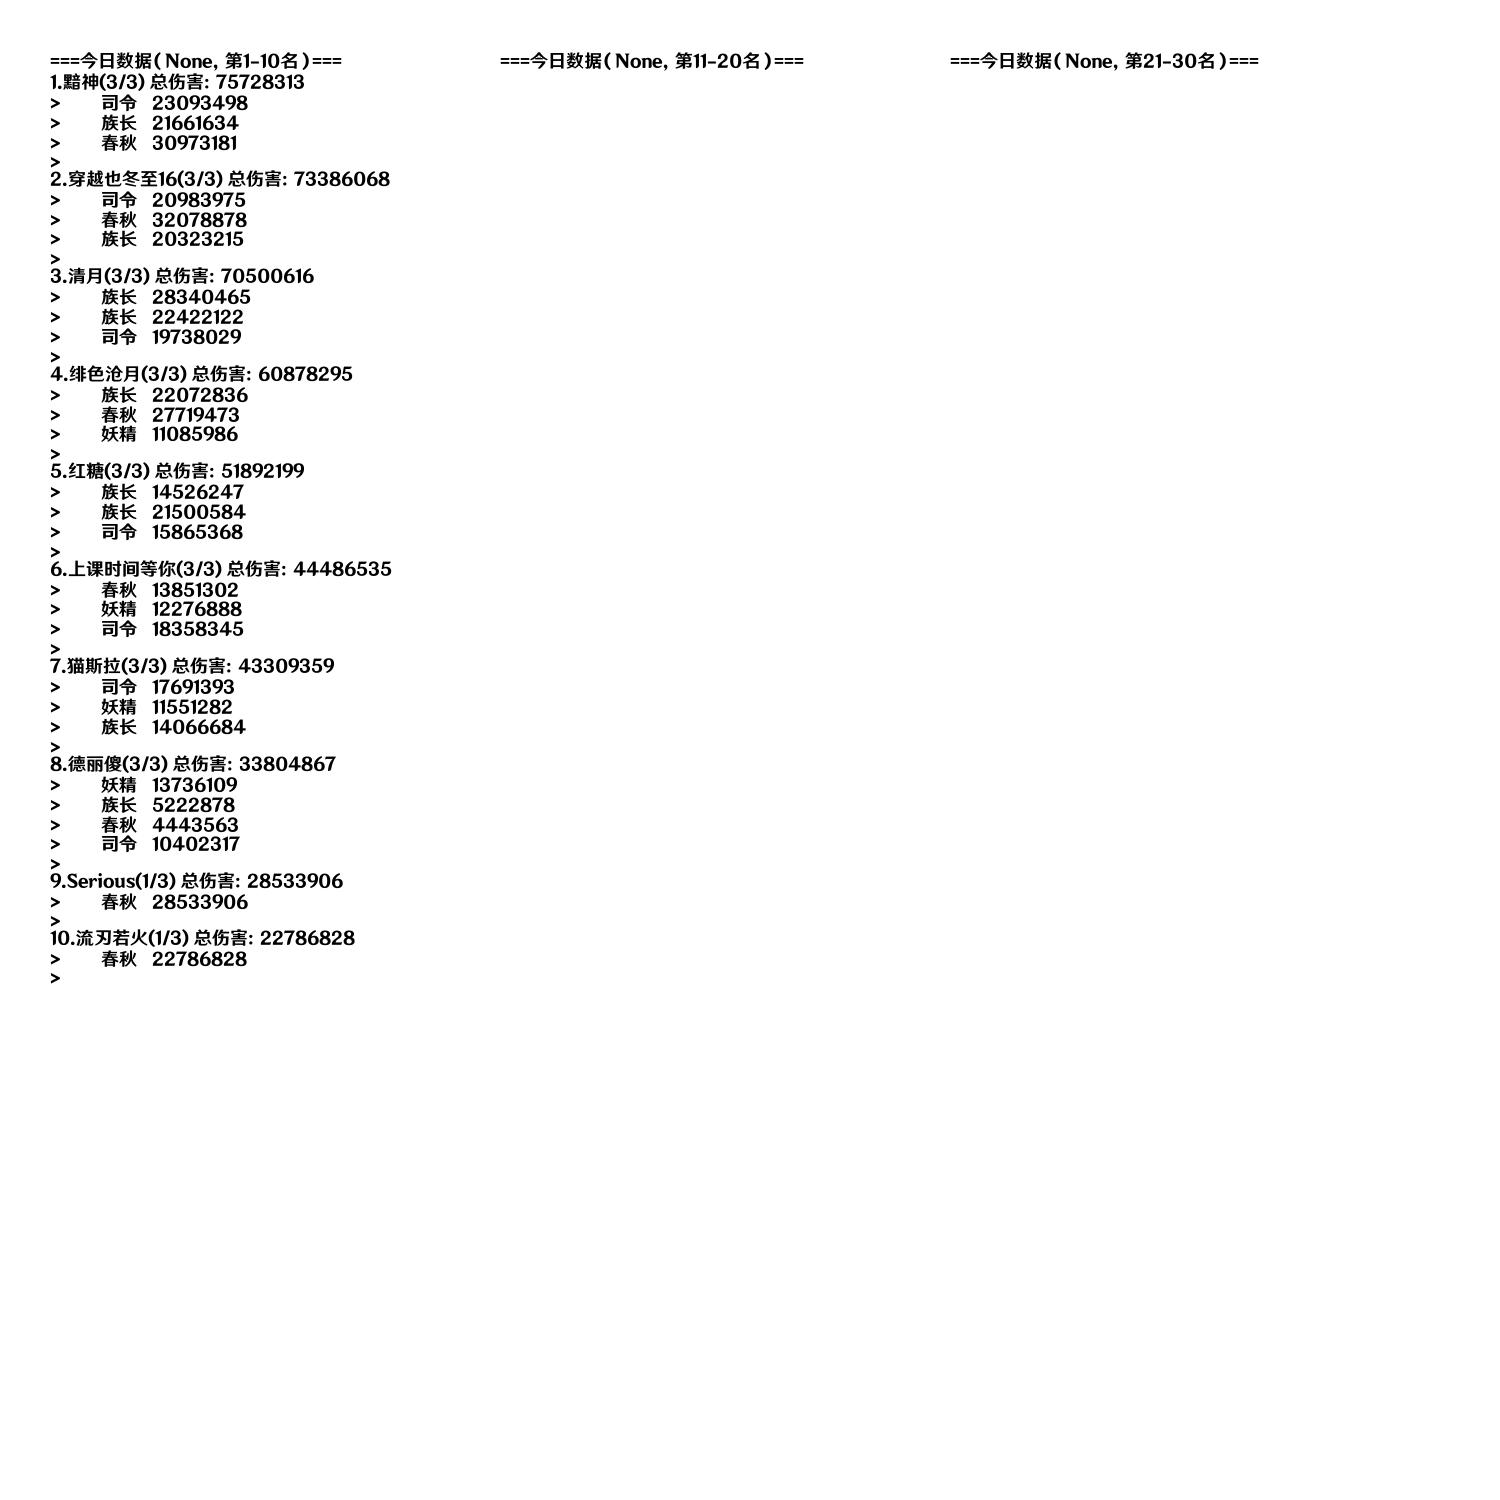
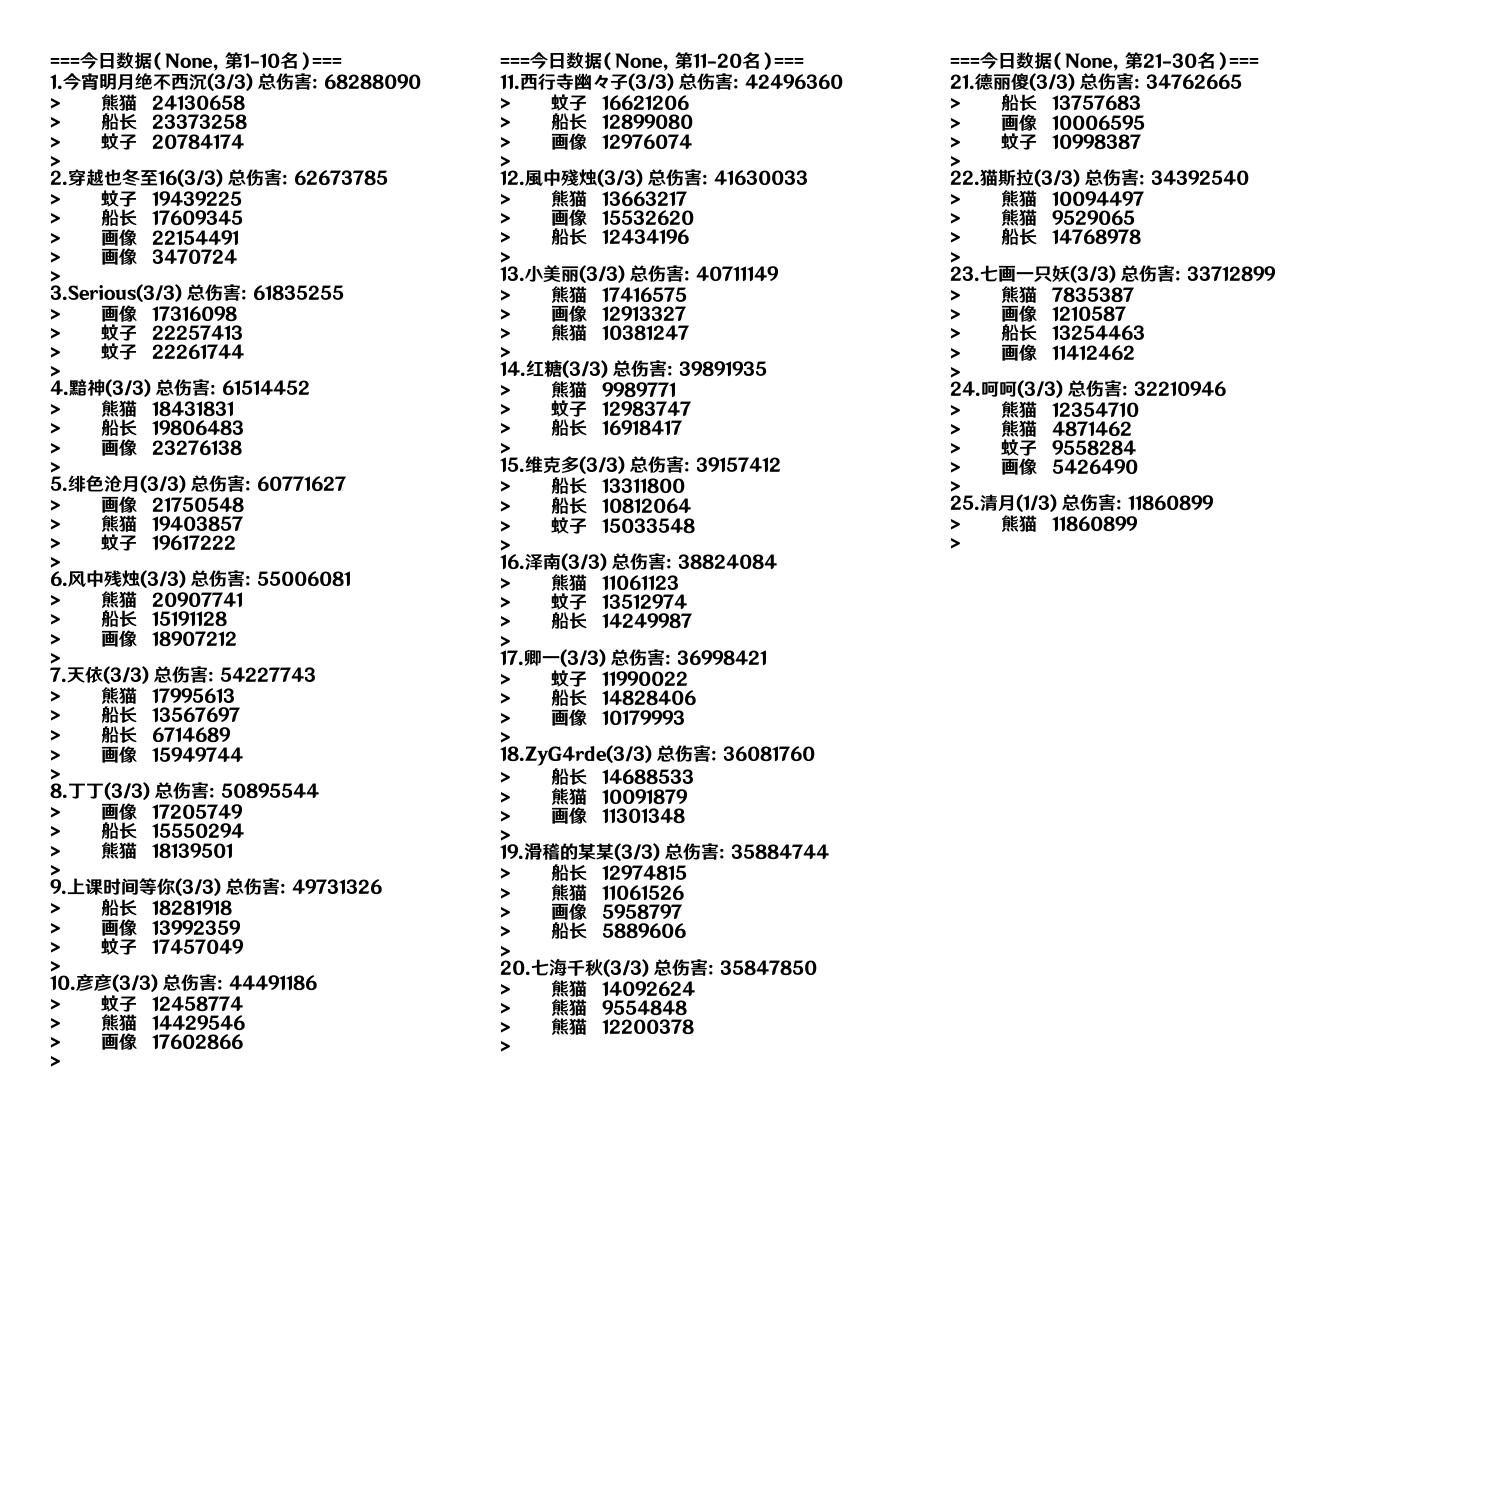
会战功能-新增千里眼、周边

diff --git a/Twip/function/kgqgj/__init__.py b/Twip/function/kgqgj/__init__.py
@@ -2,7 +2,7 @@
 Author: 七画一只妖 1157529280@qq.com
 Date: 2023-03-27 09:01:10
 LastEditors: 七画一只妖 1157529280@qq.com
-LastEditTime: 2023-04-21 17:17:16
+LastEditTime: 2023-05-31 21:55:20
 FilePath: \060坎公骑冠剑会战工具\main.py
 Description: 这是默认设置,请设置`customMade`, 打开koroFileHeader查看配置 进行设置: https://github.com/OBKoro1/koro1FileHeader/wiki/%E9%85%8D%E7%BD%AE
 '''
@@ -26,6 +26,8 @@ pattern = re.compile(r"url=(.*?)&amp;")
 daily = on_command("日报", aliases={"x每日战报", "x每日", "x日报"}, block=True, priority=1)
 total = on_command("总榜", aliases={"x总排行", "x排行", "x排行榜"}, block=True, priority=1)
 rate = on_command("进度", aliases={"x战况", "x现在情况", "x当前进度"}, block=True, priority=1)
+long_eyes = on_command("千里眼", block=True, priority=1)
+toy = on_command("周边", block=True, priority=1)
 
 set_img = on_command("设置作业", block=True, priority=1)
 get_img = on_command("获取作业", block=True, priority=1)
@@ -108,3 +110,16 @@ async def _(bot: Bot, event: GroupMessageEvent, cost=0):
         await daily.finish(f"获取数据失败，错误信息：{e}")
 
     await daily.send(MessageSegment.image("file:///" + img_path))
+
+
+@long_eyes.handle()
+@is_level_A
+async def _(bot: Bot, event: GroupMessageEvent, cost=0):
+    await long_eyes.send(MessageSegment.image("https://i0.hdslb.com/bfs/article/c02eac3ec9ac4dc237241b50878c6ed10c0d4f7b.jpg"))
+
+
+@toy.handle()
+@is_level_A
+async def _(bot: Bot, event: GroupMessageEvent, cost=0):
+    await toy.send(MessageSegment.image(f"http://cdngoapl.twip.top/%E5%9D%8E%E5%85%AC/%E5%91%A8%E8%BE%B920230531.png"))
+

diff --git a/Twip/__init__.py b/Twip/__init__.py
@@ -2,7 +2,7 @@
 Author: 七画一只妖 1157529280@qq.com
 Date: 2022-10-09 13:27:39
 LastEditors: 七画一只妖 1157529280@qq.com
-LastEditTime: 2023-05-21 22:44:33
+LastEditTime: 2023-05-31 21:48:06
 '''
 from os import path
 from pathlib import Path
@@ -73,13 +73,13 @@ async def shutdown():
 
 # 加载来自商店的模块
 # load_plugins(str(Path(__file__).parent / 'plugins'))
-load_plugins("Twip/plugins")
+# load_plugins("Twip/plugins")
 # load_plugins("Twip/bean")
 
 # 加载自己写的模块
-load_plugins("Twip/admin")
+# load_plugins("Twip/admin")
 load_plugins("Twip/function")
-load_plugins("Twip/user")
-load_plugins("Twip/listener")
-load_plugins("Twip/speaker")
-load_plugins("Twip/help")
+# load_plugins("Twip/user")
+# load_plugins("Twip/listener")
+# load_plugins("Twip/speaker")
+# load_plugins("Twip/help")

diff --git a/Twip/function/kgqgj/payload/utils/data_utils.py b/Twip/function/kgqgj/payload/utils/data_utils.py
@@ -2,7 +2,7 @@
 Author: 七画一只妖 1157529280@qq.com
 Date: 2023-03-27 09:55:54
 LastEditors: 七画一只妖 1157529280@qq.com
-LastEditTime: 2023-04-21 17:15:43
+LastEditTime: 2023-05-31 21:35:20
 '''
 import json
 
@@ -41,6 +41,9 @@ def _data_format(name):
         "妖精":"妖精",
         "春秋派首领":"春秋",
         "哥布林族长":"族长",
-        "侵略军司令官":"司令"
+        "侵略军司令官":"司令",
+        "boss_mech_guild_fury_43th":"熊猫",
+        "boss_admiral_guild_43th_modified":"船长",
+        "boss_portrait_guild_43th":"画像"
     }
     return data[name]
